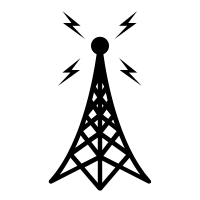
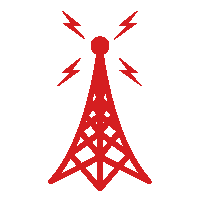
Adjust loading animation colors

diff --git a/src/assets/styles/LoadingScreen/loadingAnimation.css b/src/assets/styles/LoadingScreen/loadingAnimation.css
@@ -2,7 +2,18 @@
     --color: #1dce7c;
     --colorRight: #12794b;
     --colorLeft: #1dce7c;
-    --shadow: #702020;
+    --shadow: #801111;
+}
+
+div.background {
+    top: 0;
+    left: 0;
+    position: fixed;
+    justify-content: center;
+    display: block;
+    width: 100%;
+    height: 100%;
+    background-color: #0e1438
 }
 
 .boxes {
@@ -10,11 +21,13 @@
     --duration: 800ms;
     height: calc(var(--size) * 2);
     width: calc(var(--size) * 3);
-    position: relative;
+    position: absolute;
+    justify-content: center;
     transform-style: preserve-3d;
     transform-origin: 50% 50%;
     margin-top: calc(var(--size) * 1.5 * -1);
     transform: rotateX(60deg) rotateZ(45deg) rotateY(0deg) translateZ(0px);
+
     .box {
         width: var(--size);
         height: var(--size);
@@ -22,22 +35,27 @@
         left: 0;
         position: absolute;
         transform-style: preserve-3d;
+
         &:nth-child(1) {
             transform: translate(100%, 0);
             animation: box1 var(--duration) linear infinite;
         }
+
         &:nth-child(2) {
             transform: translate(0, 100%);
             animation: box2 var(--duration) linear infinite;
         }
+
         &:nth-child(3) {
             transform: translate(100%, 100%);
             animation: box3 var(--duration) linear infinite;
         }
+
         &:nth-child(4) {
             transform: translate(200%, 0);
             animation: box4 var(--duration) linear infinite;
         }
+
         & > div {
             --background: var(--color);
             --top: auto;
@@ -56,19 +74,23 @@
             bottom: var(--bottom);
             left: var(--left);
             transform: rotateY(var(--rotateY)) rotateX(var(--rotateX)) translateZ(var(--translateZ));
+
             &:nth-child(1) {
                 --top: 0;
                 --left: 0;
             }
+
             &:nth-child(2) {
                 --background: var(--colorRight);
                 --right: 0;
                 --rotateY: 90deg;
             }
+
             &:nth-child(3) {
                 --background: var(--colorLeft);
                 --rotateX: -90deg;
             }
+
             &:nth-child(4) {
                 --background: var(--shadow);
                 --top: 0;
@@ -90,7 +112,7 @@
 }
 
 @keyframes box2 {
-    0%{
+    0% {
         transform: translate(0, 100%);
     }
     50% {
@@ -112,7 +134,7 @@
 }
 
 @keyframes box4 {
-    0%{
+    0% {
         transform: translate(200%, 0);
     }
     50% {
@@ -129,6 +151,7 @@ html {
 
 * {
     box-sizing: border-box;
+
     &:before,
     &:after {
         box-sizing: border-box;
@@ -136,19 +159,23 @@ html {
 }
 
 body {
+    padding-right: 150px;
+    padding-top: 70px;
     min-height: 100vh;
     display: flex;
     justify-content: center;
     align-items: center;
-    background: #0e0c0c;
+
     .dribbble {
         position: fixed;
         display: block;
         right: 20px;
         bottom: 20px;
+
         img {
             display: block;
             height: 28px;
         }
     }
+
 }

diff --git a/src/components/ThreeGLBScene.vue b/src/components/ThreeGLBScene.vue
@@ -7,10 +7,11 @@ import * as THREE from 'three';
 import {GLTFLoader} from 'three/examples/jsm/loaders/GLTFLoader';
 import {getCurrentInstance} from 'vue'
 import NavBar from "@/components/NavBar.vue";
+import LoadingAnimation from "@/components/LoadingAnimation.vue";
 
 export default {
   name: 'ThreeGLBScene',
-  components: {NavBar},
+  components: {LoadingAnimation, NavBar},
   data() {
     return {
       mouse: new THREE.Vector2(),
@@ -57,7 +58,6 @@ export default {
 
       this.renderer = new THREE.WebGLRenderer({canvas, antialias: true});
       this.renderer.setSize(this.$refs.sceneContainer.clientWidth, this.$refs.sceneContainer.clientHeight);
-      // this.$refs.sceneContainer.appendChild(this.renderer.domElement);
 
       //set up the renderer with the default settings for threejs.org/editor - revision r153
       this.renderer.shadows = true;
@@ -72,9 +72,12 @@ export default {
       this.renderer.outputColorSpace = THREE.SRGBColorSpace
 
     },
-
     loadScene: function () {
-      const loader = new GLTFLoader()
+      const loadingManager = new THREE.LoadingManager(() => {
+        this.$emit('loaded');
+      });
+
+      const loader = new GLTFLoader(loadingManager)
       loader.load(
           '/spinning-disc.gltf',
           (gltf) => {
@@ -92,12 +95,6 @@ export default {
             const camera = this.instance.proxy.$elements.find((el) => el.name === 'front_view_camera');
             this.instance.proxy.$scene.add(camera);
             this.setupScene(gltf);
-
-          },
-          (xhr) => {
-          },
-
-          (error) => {
 
           }
       );
@@ -132,8 +129,6 @@ export default {
     },
     setupDisc: function () {
       const disc = this.instance.proxy.$scene.children[0].children.find((item) => item.name === 'spinning_disc')
-
-      // disc.receiveShadow = true;
       disc.castShadow = true;
     },
     setupBackDrop: function () {
@@ -146,7 +141,6 @@ export default {
 
       if (this.camera) {
         this.updateCameraAspect();
-
         this.renderer.render(this.instance.proxy.$scene, this.camera);
       }
 
@@ -203,7 +197,7 @@ export default {
 
 }
 </script>
-
+<style src="../assets/styles/LoadingScreen/loadingUtils.css"></style>
 <style>
 * {
   margin: 0;

diff --git a/src/assets/styles/LoadingScreen/loadingUtils.css b/src/assets/styles/LoadingScreen/loadingUtils.css
@@ -6,7 +6,7 @@ html, body {
 }
 
 #loading-screen {
-	position: fixed;
+	position: absolute;
 	z-index: 2;
 	top: 0;
 	left: 0;
@@ -17,7 +17,7 @@ html, body {
  	transition: 1s opacity;
 }
 
-#loading-screen.fade-out {
+.fade-out {
     opacity: 0;
 }
 
@@ -31,9 +31,6 @@ html, body {
     margin: -75px 0 0 -75px;
     border-radius: 50%;
     border: 3px solid transparent;
-    border-top-color: #9370DB;
-    -webkit-animation: spin 2s linear infinite;
-    animation: spin 2s linear infinite;
 }
 #loader:before {
     content: "";
@@ -44,9 +41,6 @@ html, body {
     bottom: 5px;
     border-radius: 50%;
     border: 3px solid transparent;
-    border-top-color: #BA55D3;
-    -webkit-animation: spin 3s linear infinite;
-    animation: spin 3s linear infinite;
 }
 #loader:after {
     content: "";

diff --git a/src/App.vue b/src/App.vue
@@ -1,16 +1,29 @@
 <script setup>
 import ThreeGLBScene from "@/components/ThreeGLBScene.vue";
 import NavBar from "@/components/NavBar.vue";
-import {darkTheme} from 'naive-ui'
-import LoadingAnimation from "@/components/LoadingAnimation.vue";
-
+import {ref} from 'vue'
+const loaded = ref(false);
 </script>
+
 
 <template>
   <main>
     <NavBar/>
-<!--    <ThreeGLBScene/>-->
-    <LoadingAnimation/>
+    <ThreeGLBScene @loaded="handleLoadEnd"/>
+    <LoadingAnimation ref="loadingAnimationRef" :class="{loaded}" />
   </main>
 </template>
 
+
+<script>
+import LoadingAnimation from "./components/LoadingAnimation.vue";
+
+export default {
+  components: {LoadingAnimation},
+  methods: {
+    handleLoadEnd() {
+      console.log(this.$refs.loadingAnimationRef.value);
+    }
+  }
+}
+</script>

diff --git a/src/components/NavBar.vue b/src/components/NavBar.vue
@@ -8,7 +8,7 @@ import {
 import {Mixcloud} from "@vicons/fa";
 import {AlternateEmailFilled} from "@vicons/material";
 import {Link} from "@vicons/tabler";
-import radioTowerIcon from '../assets/images/radio-tower-red.png'
+import radioTowerIcon from '../assets/images/radio-tower.png'
 import whiteLogo from "../assets/images/locomobile-title.png";
 
 const defaultIconStyle = {height: '100%', width: '100%', paddingBottom: 10, paddingRight: 10}
@@ -110,5 +110,5 @@ export default defineComponent({
 </template>
 
 
-<style src="../assets/Navbar/stylesheet.css"></style>
-<style scoped src="../assets/Navbar/scopedStylesheet.css"></style>
+<style src="../assets/styles/Navbar/stylesheet.css"></style>
+<style scoped src="../assets/styles/Navbar/scopedStylesheet.css"></style>

diff --git a/src/main.js b/src/main.js
@@ -1,6 +1,6 @@
-import './assets/main.css'
-import './assets/Navbar/stylesheet.css'
-import './assets/Navbar/scopedStylesheet.css'
+import '@/assets/styles/main.css'
+import '@/assets/styles/Navbar/stylesheet.css'
+import '@/assets/styles/Navbar/scopedStylesheet.css'
 import { createApp } from 'vue'
 import App from './App.vue'
 

diff --git a/src/components/LoadingAnimation.vue b/src/components/LoadingAnimation.vue
@@ -34,4 +34,6 @@
       alt=""></a>
 </template>
 
-<style src="../assets/LoadingScreen/loadingAnimation.css"></style>
+<style src="../assets/styles/LoadingScreen/loadingAnimation.css"></style>
+<script setup lang="ts">
+</script>

diff --git a/src/assets/styles/main.css b/src/assets/styles/main.css
@@ -1,4 +1,4 @@
-@import './base.css';
+@import 'base.css';
 
 #app {
   margin: 0 auto;
